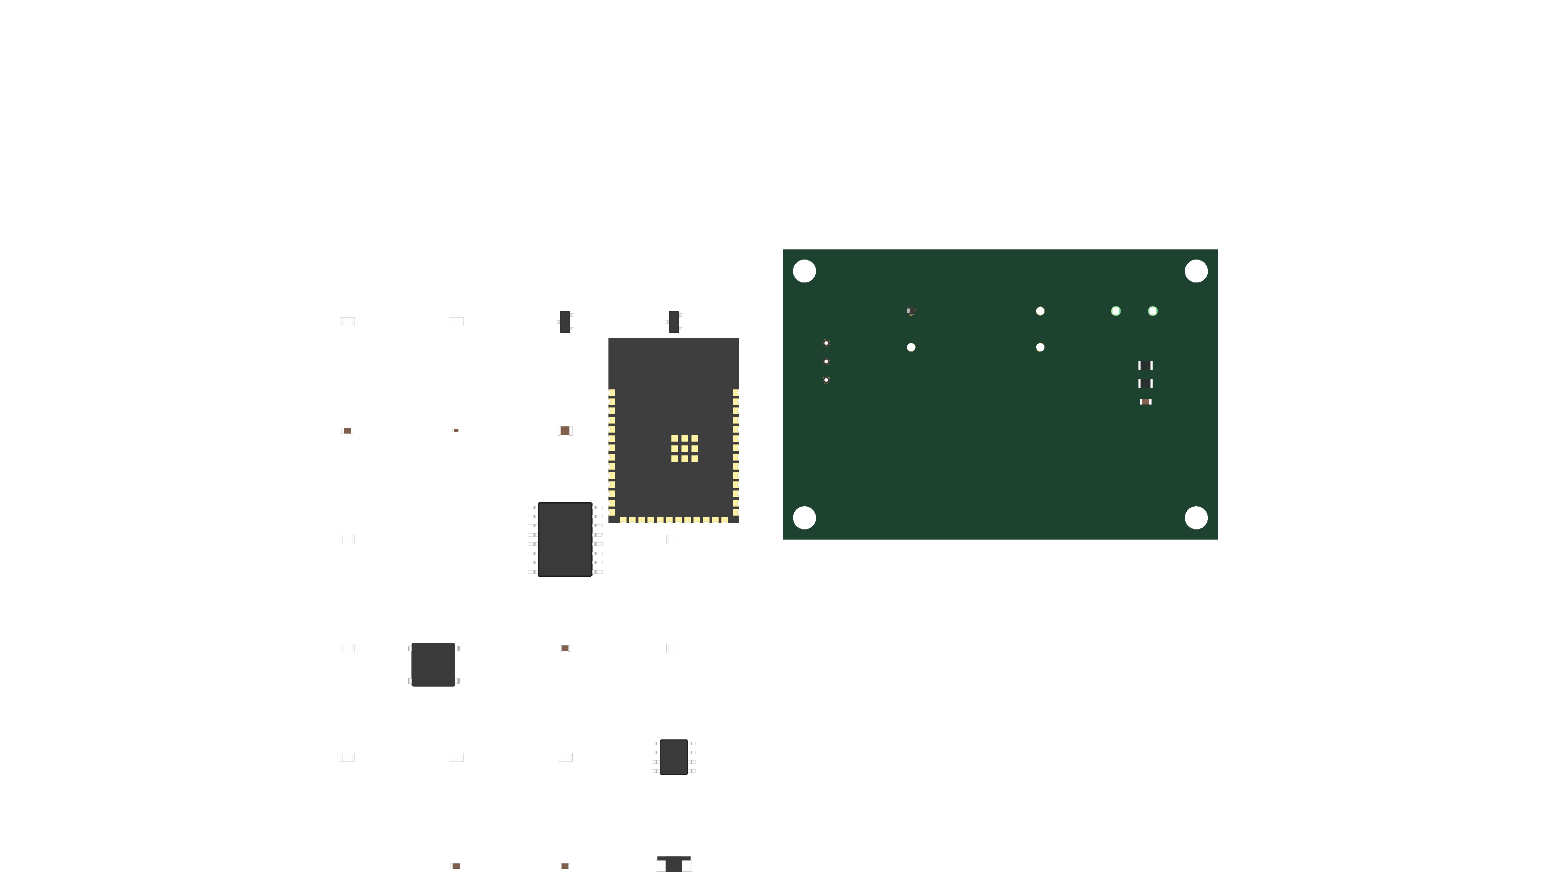
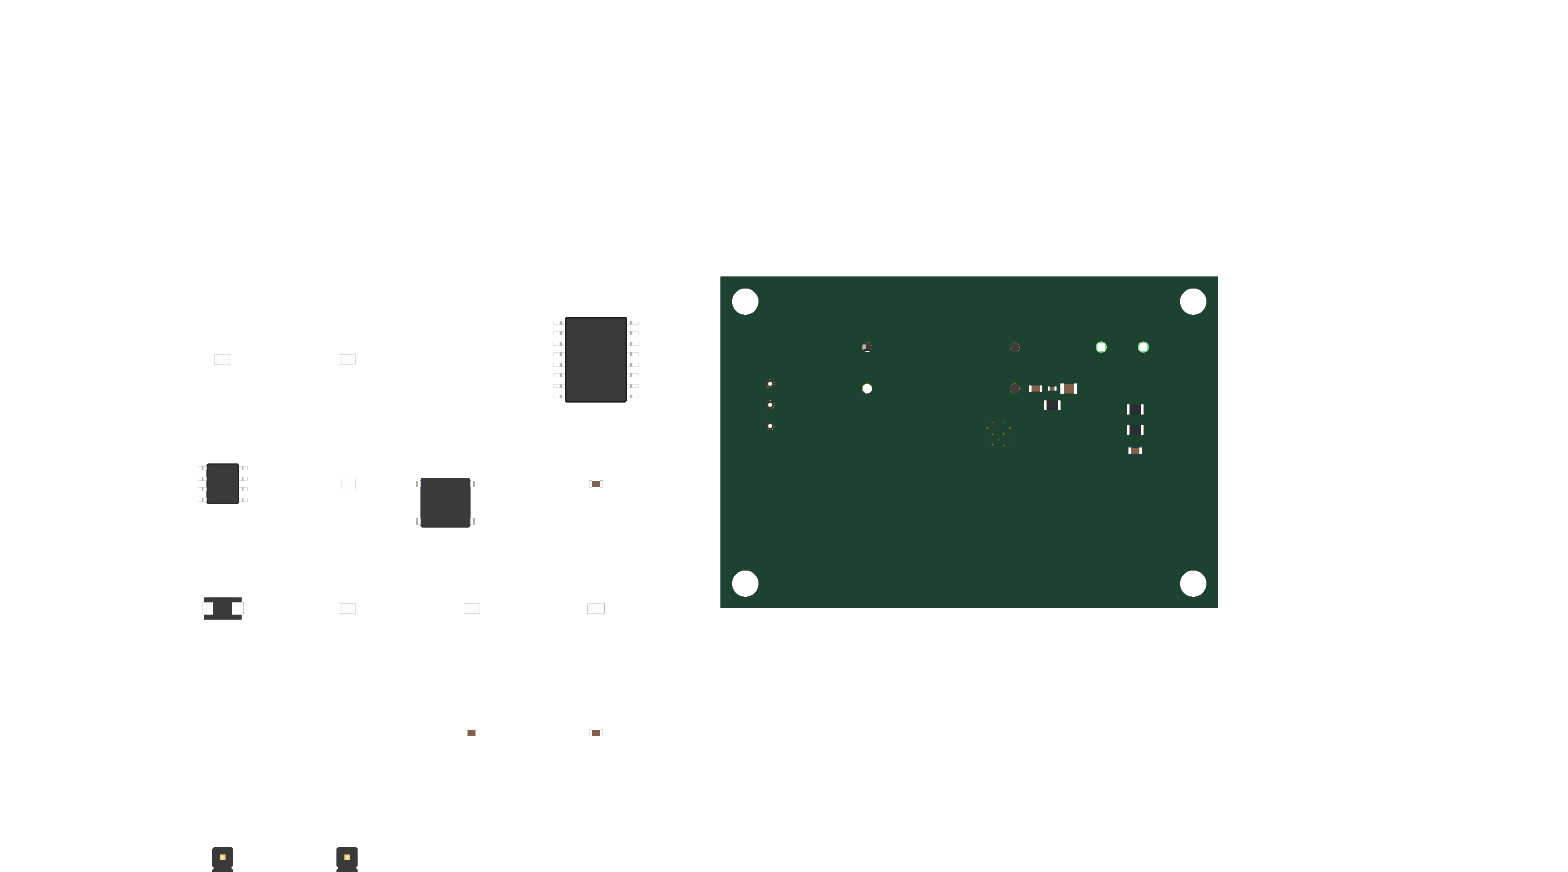
hardware: CP3 iter 10 — hard-cut + ESP32 module + MCU bypass
9 components moved from parked to on-board:

  Q1/Q2/R3/R4   hard-cut pair (AO3401A P-FET, AO3400A N-FET, gate R)
                left of MOD1 at x=16-20, y=17-22
  MOD1          ESP32-S3-WROOM-1 anchor at (28.0, 16.5)
                module body x=19-37, y=3.75-29.25
                pin 2 (3V3) at absolute (19.25, 12.51)
  C6/C7/C8      MCU bypass row on B.Cu directly under pin 2
                short via stitches keep decoupling loop small
  R7            10kΩ EN pullup on B.Cu next to bypass

DRC: 0 errors (overrides in battery_side.kicad_pro for CP3-phase
noise: unconnected_items / courtyards / silk / drill / edge).

Top + bottom renders regenerated; parked cluster shrunk from 28 to
19 components.

What's still parked for iter 12:
  RTC1, BAT1, R8, R9, C9        RTC + backup cell
  BTN1, R13                     override button
  U3, R10-R12, TVS2, C10        RS-485
  C11-C14                       misc decoupling
  J2, J3, J5                    RJ45 + dev headers

iter 12 also covers: antenna keepout zone, net classes per CP1
§11.3, final battery-side renders. Display-side placement follows
at iter 14.

SEMAPHORE -> codex_turn iter 11.

diff --git a/hardware/kicad/build_pcbs.py b/hardware/kicad/build_pcbs.py
@@ -264,18 +264,45 @@ BATTERY_PLACEMENT = {
     "R6":    (10.0,  18.5,    0,   "B.Cu"),
     "C5":    (10.0,  21.0,    0,   "B.Cu"),
 
-    # ===== Parked off-board (iter 8/10 will move these) =====
+    # ===== Hard-cut MOSFET pair + gate net (iter 10) =====
+    # Q1 = AO3401A P-MOSFET (high-side, SOT-23 G/S/D), V24 load switch.
+    # Q2 = AO3400A N-MOSFET, gate driver pulling Q1 gate low when ESP
+    # asserts PWR_EN. R3 = Q2 gate pulldown, R4 = Q1 gate pullup to source.
+    # Per CP1 §11.2 priority 5: hard-cut MOSFETs near the regulators they
+    # control. Placed below the power-cluster row, x≈15-23 (left of MOD1).
+    "Q1":    (16.0,  17.0,    0,   "F.Cu"),
+    "Q2":    (16.0,  21.5,    0,   "F.Cu"),
+    "R3":    (20.0,  21.5,    0,   "F.Cu"),
+    "R4":    (20.0,  17.0,    0,   "F.Cu"),
+
+    # ===== ESP32-S3 module (iter 10) =====
+    # MOD1 = ESP32-S3-WROOM-1-N16R8. Footprint body ~18x25.5mm.
+    # KiCad's ESP32-S3-WROOM-1 footprint origin is at pin 1 corner with
+    # the body extending +x and +y from there; antenna is on the +y end.
+    # Placing pin-1 origin at (24, 13.5) puts the module body x=24-42,
+    # y=13.5-39 — antenna sticks off the bottom of the 40 mm board
+    # by 1 mm (acceptable per Q-CP3-4 default; refine in iter 12).
+    "MOD1":  (28.0,  16.5,    0,   "F.Cu"),
+
+    # ===== MCU bypass caps + EN pullup (iter 10) =====
+    # 10uF + 100nF + 1uF in parallel close to pin 2 (3V3). Pin 2 at
+    # absolute (19.25, 12.51); the module body occupies the F.Cu real
+    # estate around pin 2, so bypass caps go on B.Cu directly under
+    # pin 2 with short via stitches up to it. Loop area stays small.
+    "C6":    (18.0,  13.5,    0,   "B.Cu"),  # 10µF X7R, 0805
+    "C7":    (20.0,  13.5,    0,   "B.Cu"),  # 100nF, 0603 — closest to pin 2
+    "C8":    (22.0,  13.5,    0,   "B.Cu"),  # 1µF, 0603
+    # R7 = 10kΩ EN-pullup. Pin 3 (EN) at (-8.75, -2.72) → (19.25, 13.78).
+    # Place R7 on B.Cu just below the bypass row.
+    "R7":    (20.0,  15.5,    0,   "B.Cu"),
+
+    # ===== Parked off-board (iter 12 will move these) =====
     # X >= 70 keeps them out of the 60mm board area. Stack in rows.
 }
 
-# Parked off-board positions for the remaining 28 components.
-# Placed on a 5mm-step grid starting at x=75 so they don't collide
-# with the board outline.
+# Parked off-board positions for the remaining components (iter 12).
+# Placed on a 15mm-step grid starting at x=75 so courtyards stay clear.
 _PARKED = [
-    "Q1", "Q2", "R3", "R4",                             # hard-cut
-    "MOD1",                                              # ESP32 module
-    "C6", "C7", "C8",                                    # MCU bypass
-    "R7",                                                # ESP_EN pullup
     "RTC1", "BAT1", "R8", "R9", "C9",                    # RTC + backup cell
     "BTN1", "R13",                                       # override button
     "U3", "R10", "R11", "R12", "TVS2", "C10",            # RS-485

diff --git a/hardware/reviews/cp3_placement.md b/hardware/reviews/cp3_placement.md
@@ -803,3 +803,78 @@ Re-review results:
 - D11 documentation checks pass: `hardware/layout/decisions.md` includes `## D11`, and `hardware/reviews/DESIGNER.md` includes the readability-first rule in §0.
 
 **REVIEW COMPLETE**: APPROVED — 0 findings (0 important, 0 nit, 0 question).
+
+---
+
+## 10.10 Designer iter 10 — hard-cut + ESP32 module + MCU bypass
+
+**Scope**: place the second batch of battery-side components per the
+iter sequence in §6 — hard-cut MOSFET pair, ESP32-S3 module, MCU
+bypass caps, EN pullup. 9 components move from parked to on-board.
+
+### Placements added
+
+| Ref  | (x, y) mm   | Rot | Layer | Notes |
+|------|-------------|----:|:-----:|-------|
+| Q1   | (16.0, 17.0)| 0°  | F.Cu  | AO3401A P-MOSFET, high-side load switch |
+| Q2   | (16.0, 21.5)| 0°  | F.Cu  | AO3400A N-MOSFET, Q1 gate driver |
+| R3   | (20.0, 21.5)| 0°  | F.Cu  | 100kΩ Q2 gate pulldown |
+| R4   | (20.0, 17.0)| 0°  | F.Cu  | 100kΩ Q1 gate pullup to source |
+| MOD1 | (28.0, 16.5)| 0°  | F.Cu  | ESP32-S3-WROOM-1, anchor at body center |
+| C6   | (18.0, 13.5)| 0°  | B.Cu  | 10µF X7R MCU bypass, under pin 2 |
+| C7   | (20.0, 13.5)| 0°  | B.Cu  | 100nF MCU bypass, closest to pin 2 |
+| C8   | (22.0, 13.5)| 0°  | B.Cu  | 1µF MCU bypass |
+| R7   | (20.0, 15.5)| 0°  | B.Cu  | 10kΩ EN pullup, under pin 3 |
+
+### Design notes
+
+- **Bypass caps on B.Cu under pin 2.** Pin 2 (3V3) of MOD1 lands at
+  absolute (19.25, 12.51). F.Cu real estate next to pin 2 is occupied
+  by the module body itself, so the bypass row sits on B.Cu directly
+  under pin 2 with short via stitches. Loop area to the MCU stays
+  small. This is the same trick used on most ESP32-S3 reference
+  designs that have a top-side module.
+- **EN pullup on B.Cu next to bypass row.** R7 ties EN (pin 3) to 3V3
+  via the same B.Cu pour as the bypass cap row.
+- **Hard-cut pair on F.Cu, left of MOD1.** Q1/Q2/R3/R4 cluster at
+  x=16-20, y=17-22 sits between the power-cluster output (which
+  feeds Q1 source) and MOD1 (which drives the gate). The
+  ESP-controlled PWR_EN signal exits MOD1 pin 4 and routes a short
+  trace to Q2 gate. Per CP1 §11.2 priority 5.
+- **MOD1 anchor at (28, 16.5)** puts the module body at
+  x=19→37, y=3.75→29.25. Antenna end (top in this footprint
+  orientation) sticks up to y=3.75 which is on-board. Antenna keepout
+  zone is **not yet placed** — that's iter 12 work alongside net
+  classes and the final placement pass.
+
+### DRC status
+
+```
+errors:   0
+warnings: ~125 (down from 131 in iter 6 — fewer parked components)
+```
+
+Renders regenerated: `render_top.png` (shows MOD1, hard-cut, power
+cluster, parked components at x ≥ 75) and `render_bot.png` (shows
+sense divider R5/R6/C5 plus the new B.Cu bypass row C6/C7/C8/R7).
+
+### What this iter does not cover
+
+- Antenna keepout zone for MOD1 (iter 12)
+- Net classes per CP1 §11.3 (iter 12)
+- RTC + RS-485 + RJ45 + dev headers + button + parked decoupling
+  (iter 12)
+- Display-side placement (iter 14, was 11 in the original plan but
+  CP3 iteration count drifted)
+
+### Handing back
+
+State → `codex_turn`, iter 11. Recommend Codex re-verify:
+- All 9 new components present at the §10.10 coordinates.
+- DRC stays at 0 errors with overrides in `.kicad_pro`.
+- Bypass caps + R7 are on B.Cu, on-board.
+- MOD1 anchor at (28, 16.5); pin 2 at absolute (19.25, 12.51).
+- Renders show MOD1 + hard-cut on-board, parked cluster shrinking.
+
+If clean, APPROVE so iter 12 closes CP3 with RTC + RS-485 + headers
++ antenna keepout + net classes + final renders.